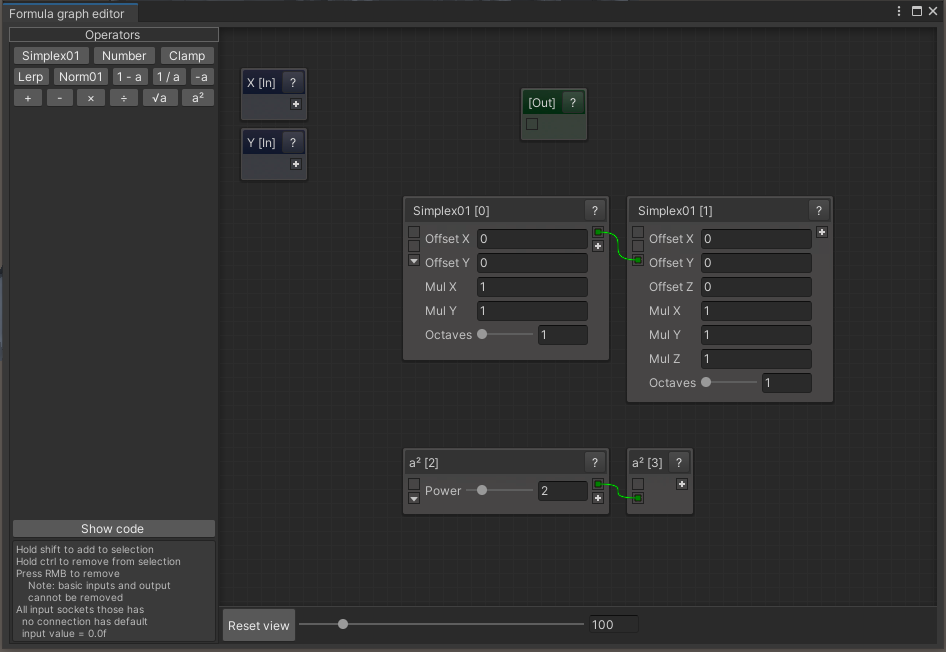
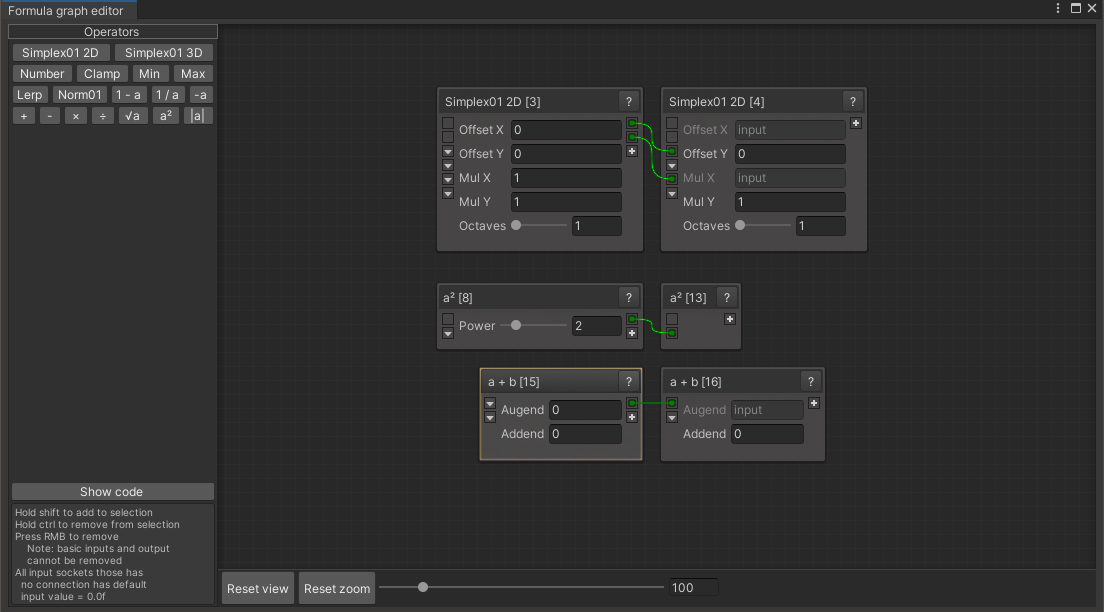
README updated

diff --git a/README.md b/README.md
@@ -114,11 +114,11 @@ Can be used to gain understanding about how different formula members do impact 
     |:--:|
     | *Non-connected input sockets passes 0 by default.* |
 
-  - Some of the input sockets are "optional": connecting this socket changes the node function behavior. Non-connected "optional" sockets are not used by the formula at all.
+  - Some of the input sockets are "optional": connecting this socket lets the appropriate input value be variable instead on constantly defined.
 
     | ![](Docs/img19.png?raw=true"") |
     |:--:|
-    | *Optional input sockets has special icon. Notice how the "**Simplex01**" and the "**a²**" node appearance has changed after its optional input socket has been connected.* |
+    | *Optional input sockets has special icon. Notice how the "**Simplex01 2D**", "**a + b**"  and the "**a²**" nodes appearance has changed after its optional input socket has been connected.* |
 
   - Any node connection or configurable parameter changes will be instantly reflected in the mesh - this is the main target of this project. You 
       change value and watch how it reflects on the result without waiting for code recompilation/assembly reloading.
